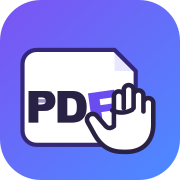
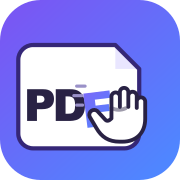
Add Word-style PDF editing ribbon (#17)

Changed region(s): [[0.0833, 0.2222, 0.8889, 0.8611]]

diff --git a/public/index.html b/public/index.html
@@ -188,11 +188,13 @@ canvas#sigPad{border:1px solid var(--line2);border-radius:8px;cursor:crosshair;t
 .sigsaved .sigthumb img{max-height:38px;max-width:132px;display:block;pointer-events:none;}
 .sigsaved .sigthumb .x{top:-7px;right:-7px;}
 
-/* ---- Word-style menu bar + contextual ribbon (wide screens) ---- */
-.menubar{display:flex;align-items:center;gap:2px;height:40px;flex:0 0 40px;padding:0 10px;background:#fff;border-bottom:1px solid var(--line);z-index:19;}
+/* ---- Word-style tabs + command ribbon (wide screens) ---- */
+.menubar{display:flex;align-items:flex-end;gap:1px;height:38px;flex:0 0 38px;padding:0 12px;background:#fff;border-bottom:1px solid var(--line);z-index:21;}
 .menubar .menu{position:relative;}
-.menubar .menutop{border:none;background:transparent;color:var(--ink2);font-size:13px;font-weight:600;padding:6px 11px;border-radius:7px;}
-.menubar .menutop:hover,.menubar .menu.open .menutop{background:var(--chip);}
+.menubar .menu:not([data-menu="file"]),.menubar .zoomgroup,.menubar .quicktool{display:none;}
+.menubar .menutop,.menubar .ribbontab{height:37px;border:none;border-bottom:3px solid transparent;background:transparent;color:var(--ink2);font-size:13px;font-weight:600;padding:3px 13px 0;}
+.menubar .menutop:hover,.menubar .menu.open .menutop,.menubar .ribbontab:hover{background:#f6f6f8;}
+.menubar .ribbontab.active{color:var(--accent);border-bottom-color:var(--accent);background:#faf9ff;}
 .menubar .menupop{display:none;position:absolute;top:calc(100% + 3px);left:0;min-width:216px;background:#fff;border:1px solid var(--line2);border-radius:10px;box-shadow:0 14px 36px rgba(20,22,30,.18);padding:6px;z-index:40;}
 .menubar .menu.open .menupop{display:block;}
 .menubar .mi{display:flex;align-items:center;justify-content:space-between;gap:18px;width:100%;text-align:left;border:none;background:transparent;color:var(--ink2);font-size:13px;font-weight:500;padding:8px 10px;border-radius:7px;white-space:nowrap;}
@@ -200,14 +202,21 @@ canvas#sigPad{border:1px solid var(--line2);border-radius:8px;cursor:crosshair;t
 .menubar .mi.active{color:var(--accent);font-weight:700;}
 .menubar .mi .kbd{font-size:11px;color:var(--sub3);font-weight:600;}
 .menubar .misep{height:1px;background:#eeeef1;margin:5px 6px;}
-.menubar .zoomgroup{display:flex;align-items:center;gap:2px;border:1px solid var(--line2);border-radius:8px;padding:2px;margin:0 6px;}
-.menubar .zbtn{width:28px;height:28px;border:none;background:transparent;border-radius:6px;color:var(--ink2);font-size:16px;display:flex;align-items:center;justify-content:center;}
-.menubar .zbtn:hover{background:var(--chip);}
-.menubar .zlabel2{min-width:54px;height:28px;border:none;background:transparent;border-radius:6px;font-size:12.5px;font-weight:700;color:var(--ink2);}
-.menubar .zlabel2:hover{background:var(--chip);}
-.menubar .quicktool{border:1px solid var(--line2);background:#fff;color:var(--ink2);font-size:12.5px;font-weight:600;padding:0 12px;height:30px;border-radius:7px;}
-.menubar .quicktool:hover{background:var(--chip);}
-.menubar .quicktool.active{background:var(--grad);color:#fff;border-color:transparent;box-shadow:0 1px 4px rgba(106,76,240,.3);}
+.command-ribbon{height:94px;flex:0 0 94px;display:block;background:#fff;border-bottom:1px solid var(--line);box-shadow:0 2px 7px rgba(24,26,34,.05);overflow-x:auto;overflow-y:hidden;z-index:20;}
+.ribbon-panel{height:100%;display:flex;align-items:stretch;gap:0;padding:7px 10px 5px;}
+.ribbon-panel[hidden]{display:none;}
+.ribbon-group{display:flex;align-items:stretch;gap:4px;padding:0 12px 17px;position:relative;border-right:1px solid var(--line);}
+.ribbon-group:first-child{padding-left:2px;}
+.ribbon-group:last-child{border-right:none;}
+.ribbon-group-label{position:absolute;left:8px;right:8px;bottom:0;text-align:center;color:var(--sub2);font-size:10.5px;line-height:15px;white-space:nowrap;}
+.ribbon-command{width:62px;min-width:54px;border:1px solid transparent;border-radius:7px;background:transparent;color:var(--ink2);display:flex;flex-direction:column;align-items:center;justify-content:center;gap:4px;padding:5px 5px 4px;font-size:11.5px;font-weight:600;line-height:1.08;}
+.ribbon-command:hover{background:#f5f4f9;border-color:#e8e6ef;}
+.ribbon-command.active{background:#eeeaff;border-color:#cfc4ff;color:#5533dd;}
+.ribbon-command:focus-visible,.menubar button:focus-visible{outline:2px solid var(--accent);outline-offset:-2px;}
+.ribbon-command svg{width:28px;height:28px;display:block;flex:0 0 auto;}
+.ribbon-command.wide{width:76px;}
+.ribbon-zoom{display:flex;align-items:center;gap:3px;}
+.ribbon-zoom .ribbon-command{width:48px;}
 #ribbonScrim{z-index:54;}
 
 /* ---- Browser-style tabs (one per open PDF) ---- */
@@ -228,6 +237,13 @@ canvas#sigPad{border:1px solid var(--line2);border-radius:8px;cursor:crosshair;t
 .tabbar .tabadd:hover{background:rgba(20,22,30,.08);color:var(--ink);}
 
 @media (min-width:821px){
+  header.topbar{order:0;}
+  .tabbar{order:1;}
+  .menubar{order:2;}
+  .command-ribbon{order:3;}
+  aside.props{order:4;}
+  .body-flex{order:5;}
+  nav.rail{display:none;}
   aside.props{flex:0 0 auto;max-height:230px;overflow:auto;border-left:none;border-bottom:1px solid var(--line);background:#fbfbfc;}
   aside.props .props-head{display:none;}
   aside.props .props-body{display:flex;flex-flow:row wrap;align-items:center;gap:8px 14px;padding:9px 16px;}
@@ -242,7 +258,7 @@ canvas#sigPad{border:1px solid var(--line2);border-radius:8px;cursor:crosshair;t
   aside.props .props-body>.row{width:auto;}
   aside.props .props-body>.hint,aside.props .props-body>p.hint{flex-basis:100%;margin:0;}
   /* signature tool → centered popup instead of the horizontal ribbon */
-  body.ribbon-popup aside.props{position:fixed;left:50%;top:72px;transform:translateX(-50%);width:min(380px,92vw);max-height:76vh;overflow:auto;
+  body.ribbon-popup aside.props{position:fixed;left:50%;top:104px;transform:translateX(-50%);width:min(380px,92vw);max-height:76vh;overflow:auto;
     border:1px solid var(--line2);border-radius:14px;box-shadow:0 24px 70px rgba(0,0,0,.32);z-index:55;background:#fff;}
   body.ribbon-popup aside.props .props-head{display:block;padding:15px 18px 4px;}
   body.ribbon-popup aside.props .props-head .sheet-close{display:none;}
@@ -405,11 +421,17 @@ canvas#sigPad{border:1px solid var(--line2);border-radius:8px;cursor:crosshair;t
       <button class="mi" data-act="tutorial">Quick start</button>
     </div></div>
 
+    <button class="ribbontab active" data-ribbon="home" aria-selected="true">Home</button>
+    <button class="ribbontab" data-ribbon="insert" aria-selected="false">Insert</button>
+    <button class="ribbontab" data-ribbon="draw" aria-selected="false">Draw</button>
+    <button class="ribbontab" data-ribbon="pages" aria-selected="false">Pages</button>
+    <button class="ribbontab" data-ribbon="view" aria-selected="false">View</button>
+    <button class="ribbontab" data-ribbon="help" aria-selected="false">Help</button>
     <div class="spacer"></div>
 
     <div class="zoomgroup" title="Zoom">
       <button class="zbtn" data-act="zoomout" title="Zoom out">&#8722;</button>
-      <button class="zlabel2" data-act="zoomreset" id="hdrZoomLabel" title="Reset zoom">100%</button>
+      <button class="zlabel2" data-act="zoomreset" id="legacyHdrZoomLabel" title="Reset zoom">100%</button>
       <button class="zbtn" data-act="zoomin" title="Zoom in">&#43;</button>
     </div>
     <button class="quicktool active" data-tool="select" title="Select">Select</button>
@@ -418,6 +440,93 @@ canvas#sigPad{border:1px solid var(--line2);border-radius:8px;cursor:crosshair;t
 
   <!-- Browser-style tabs: one per open PDF. Hidden until a document is loaded. -->
   <div class="tabbar" id="tabBar" hidden></div>
+
+  <!-- Second-level command ribbon: each editor tab reveals a focused tool set. -->
+  <div class="command-ribbon desktop-only" id="commandRibbon" aria-label="PDF editor ribbon">
+    <div class="ribbon-panel" data-ribbon-panel="home">
+      <div class="ribbon-group">
+        <button class="ribbon-command" data-act="undo" title="Undo (Ctrl+Z)"><svg viewBox="0 0 24 24" fill="none" stroke="currentColor" stroke-width="1.7" stroke-linecap="round" stroke-linejoin="round"><path d="M9 7H4V2"/><path d="M4.5 7.5A9 9 0 1 1 6 18"/></svg><span>Undo</span></button>
+        <button class="ribbon-command" data-act="redo" title="Redo (Ctrl+Y)"><svg viewBox="0 0 24 24" fill="none" stroke="currentColor" stroke-width="1.7" stroke-linecap="round" stroke-linejoin="round"><path d="M15 7h5V2"/><path d="M19.5 7.5A9 9 0 1 0 18 18"/></svg><span>Redo</span></button>
+        <span class="ribbon-group-label">History</span>
+      </div>
+      <div class="ribbon-group">
+        <button class="ribbon-command active" data-tool="select"><svg viewBox="0 0 24 24" fill="none" stroke="currentColor" stroke-width="1.7" stroke-linecap="round" stroke-linejoin="round"><path d="M5 3.5 19 10l-6.2 2.1L10.5 19z"/></svg><span>Select</span></button>
+        <button class="ribbon-command" data-tool="hand" title="Pan around the page"><svg viewBox="0 0 24 24" fill="none" stroke="currentColor" stroke-width="1.65" stroke-linecap="round" stroke-linejoin="round"><path d="M7.2 11.2V7.5a1.55 1.55 0 0 1 3.1 0v2.2-4.1a1.55 1.55 0 0 1 3.1 0v4-3a1.55 1.55 0 0 1 3.1 0v3.9-2.1a1.55 1.55 0 0 1 3.1 0v5.2c0 4.7-3 7.4-7.3 7.4h-.8c-3.3 0-5.4-1.5-7-4.3l-2-3.5a1.7 1.7 0 0 1 2.7-2l2 2.2z"/></svg><span>Pan</span></button>
+        <button class="ribbon-command" data-tool="edittext"><svg viewBox="0 0 24 24" fill="none" stroke="currentColor" stroke-width="1.7" stroke-linecap="round" stroke-linejoin="round"><path d="M4 6h12M4 10.5h8M4 15h9"/><path d="m14.5 19.5 5-5 2 2-5 5h-2z"/></svg><span>Edit text</span></button>
+        <span class="ribbon-group-label">Editing tools</span>
+      </div>
+      <div class="ribbon-group">
+        <button class="ribbon-command" data-act="copy"><svg viewBox="0 0 24 24" fill="none" stroke="currentColor" stroke-width="1.7"><rect x="8" y="8" width="11" height="12" rx="1.5"/><path d="M16 8V5a1 1 0 0 0-1-1H5a1 1 0 0 0-1 1v11a1 1 0 0 0 1 1h3"/></svg><span>Copy</span></button>
+        <button class="ribbon-command" data-act="paste"><svg viewBox="0 0 24 24" fill="none" stroke="currentColor" stroke-width="1.7"><path d="M9 5V3h6v2"/><rect x="5" y="5" width="14" height="16" rx="2"/><path d="M9 10h6M9 14h6"/></svg><span>Paste</span></button>
+        <button class="ribbon-command" data-act="duplicate"><svg viewBox="0 0 24 24" fill="none" stroke="currentColor" stroke-width="1.7"><rect x="8" y="8" width="11" height="11" rx="1.5"/><rect x="4" y="4" width="11" height="11" rx="1.5"/></svg><span>Duplicate</span></button>
+        <button class="ribbon-command" data-act="delete"><svg viewBox="0 0 24 24" fill="none" stroke="currentColor" stroke-width="1.7" stroke-linecap="round"><path d="M4 6h16M9 6V3h6v3M7 6l1 15h8l1-15M10 10v7M14 10v7"/></svg><span>Delete</span></button>
+        <span class="ribbon-group-label">Clipboard</span>
+      </div>
+    </div>
+
+    <div class="ribbon-panel" data-ribbon-panel="insert" hidden>
+      <div class="ribbon-group">
+        <button class="ribbon-command" data-tool="text"><svg viewBox="0 0 24 24" fill="none" stroke="currentColor" stroke-width="1.7"><path d="M5 5h14M12 5v14M8.5 19h7"/></svg><span>Text</span></button>
+        <button class="ribbon-command" data-tool="image"><svg viewBox="0 0 24 24" fill="none" stroke="currentColor" stroke-width="1.7"><rect x="3" y="5" width="18" height="14" rx="2"/><circle cx="8.5" cy="10" r="1.5"/><path d="m21 16-5-5-8 8"/></svg><span>Picture</span></button>
+        <button class="ribbon-command" data-tool="shape"><svg viewBox="0 0 24 24" fill="none" stroke="currentColor" stroke-width="1.7"><rect x="4" y="4" width="10.5" height="10.5" rx="1"/><circle cx="15.5" cy="15.5" r="4.5"/></svg><span>Shapes</span></button>
+        <span class="ribbon-group-label">Content</span>
+      </div>
+      <div class="ribbon-group">
+        <button class="ribbon-command wide" data-tool="signature"><svg viewBox="0 0 24 24" fill="none" stroke="currentColor" stroke-width="1.7" stroke-linecap="round"><path d="M3 15c2.5 0 3-5 5.5-5s2 4 4 4 2.5-4 4.5-4M3 20h18"/></svg><span>Signature</span></button>
+        <button class="ribbon-command wide" data-tool="watermark"><svg viewBox="0 0 24 24" fill="none" stroke="currentColor" stroke-width="1.6"><g transform="rotate(-10 12 12)"><rect x="4" y="7" width="16" height="10" rx="1" stroke-dasharray="3 2.5"/><path d="m8 10 1.4 4 2.6-4 2.6 4L16 10"/></g></svg><span>Watermark</span></button>
+        <button class="ribbon-command wide" data-tool="pagenum"><svg viewBox="0 0 24 24" fill="none" stroke="currentColor" stroke-width="1.7"><path d="M9.5 4 8 20M16 4l-1.5 16M5 9h14M4 15h14"/></svg><span>Page no.</span></button>
+        <span class="ribbon-group-label">Document marks</span>
+      </div>
+    </div>
+
+    <div class="ribbon-panel" data-ribbon-panel="draw" hidden>
+      <div class="ribbon-group">
+        <button class="ribbon-command" data-tool="select"><svg viewBox="0 0 24 24" fill="none" stroke="currentColor" stroke-width="1.7"><path d="M5 3.5 19 10l-6.2 2.1L10.5 19z"/></svg><span>Select</span></button>
+        <button class="ribbon-command" data-tool="draw"><svg viewBox="0 0 24 24" fill="none" stroke="currentColor" stroke-width="1.7"><path d="m4 20 3.5-1L19 7.5A1.8 1.8 0 0 0 16.5 5L5 16.5zM14.5 6.5l3 3"/></svg><span>Pen</span></button>
+        <button class="ribbon-command" data-tool="highlight"><svg viewBox="0 0 24 24" fill="none" stroke="currentColor" stroke-width="1.7"><path d="m13 5.5 5.5 5.5-6.5 6.5H7l-1.5-4zM4 21h16"/></svg><span>Highlight</span></button>
+        <span class="ribbon-group-label">Drawing tools</span>
+      </div>
+      <div class="ribbon-group">
+        <button class="ribbon-command" data-tool="redact"><svg viewBox="0 0 24 24" fill="currentColor"><rect x="4" y="8.5" width="16" height="7" rx="1"/><path d="M6 5h12v1.5H6zM6 17.5h12V19H6z" opacity=".35"/></svg><span>Redact</span></button>
+        <span class="ribbon-group-label">Protection</span>
+      </div>
+    </div>
+
+    <div class="ribbon-panel" data-ribbon-panel="pages" hidden>
+      <div class="ribbon-group">
+        <button class="ribbon-command wide" data-tool="organize"><svg viewBox="0 0 24 24" fill="none" stroke="currentColor" stroke-width="1.7"><rect x="8" y="3" width="12" height="15" rx="1.5"/><path d="M4 7v11a2 2 0 0 0 2 2h9"/></svg><span>Organize</span></button>
+        <button class="ribbon-command wide" data-act="addpages"><svg viewBox="0 0 24 24" fill="none" stroke="currentColor" stroke-width="1.7"><path d="M5 3h10l4 4v14H5zM15 3v5h4M9 14h6M12 11v6"/></svg><span>Add pages</span></button>
+        <button class="ribbon-command wide" data-act="merge"><svg viewBox="0 0 24 24" fill="none" stroke="currentColor" stroke-width="1.7"><path d="M4 4h7v7H4zM13 13h7v7h-7zM7.5 11v3.5a2 2 0 0 0 2 2H13"/></svg><span>Merge PDFs</span></button>
+        <span class="ribbon-group-label">Pages</span>
+      </div>
+      <div class="ribbon-group">
+        <button class="ribbon-command wide" data-act="togglePages"><svg viewBox="0 0 24 24" fill="none" stroke="currentColor" stroke-width="1.7"><rect x="3" y="4" width="7" height="16" rx="1"/><path d="M14 5h6M14 10h6M14 15h6M14 19h4"/></svg><span>Pages panel</span></button>
+        <span class="ribbon-group-label">Navigation</span>
+      </div>
+    </div>
+
+    <div class="ribbon-panel" data-ribbon-panel="view" hidden>
+      <div class="ribbon-group">
+        <button class="ribbon-command wide" data-act="togglePages"><svg viewBox="0 0 24 24" fill="none" stroke="currentColor" stroke-width="1.7"><rect x="3" y="4" width="7" height="16" rx="1"/><path d="M14 5h6M14 10h6M14 15h6M14 19h4"/></svg><span>Pages panel</span></button>
+        <button class="ribbon-command wide" data-act="zoomfit"><svg viewBox="0 0 24 24" fill="none" stroke="currentColor" stroke-width="1.7"><path d="M4 9V4h5M15 4h5v5M20 15v5h-5M9 20H4v-5M7 12h10"/></svg><span>Fit width</span></button>
+        <span class="ribbon-group-label">Document view</span>
+      </div>
+      <div class="ribbon-group ribbon-zoom">
+        <button class="ribbon-command" data-act="zoomout"><svg viewBox="0 0 24 24" fill="none" stroke="currentColor" stroke-width="1.8"><circle cx="10.5" cy="10.5" r="6.5"/><path d="m15.5 15.5 5 5M7.5 10.5h6"/></svg><span>Out</span></button>
+        <button class="ribbon-command wide" data-act="zoomreset"><svg viewBox="0 0 24 24" fill="none" stroke="currentColor" stroke-width="1.7"><circle cx="10.5" cy="10.5" r="6.5"/><path d="m15.5 15.5 5 5"/></svg><span id="hdrZoomLabel">100%</span></button>
+        <button class="ribbon-command" data-act="zoomin"><svg viewBox="0 0 24 24" fill="none" stroke="currentColor" stroke-width="1.8"><circle cx="10.5" cy="10.5" r="6.5"/><path d="m15.5 15.5 5 5M7.5 10.5h6M10.5 7.5v6"/></svg><span>In</span></button>
+        <span class="ribbon-group-label">Zoom</span>
+      </div>
+    </div>
+
+    <div class="ribbon-panel" data-ribbon-panel="help" hidden>
+      <div class="ribbon-group">
+        <button class="ribbon-command wide" data-act="shortcuts"><svg viewBox="0 0 24 24" fill="none" stroke="currentColor" stroke-width="1.7"><rect x="3" y="6" width="18" height="12" rx="2"/><path d="M6 10h2M10 10h2M14 10h2M18 10h1M7 14h10"/></svg><span>Shortcuts</span></button>
+        <button class="ribbon-command wide" data-act="tutorial"><svg viewBox="0 0 24 24" fill="none" stroke="currentColor" stroke-width="1.7"><circle cx="12" cy="12" r="9"/><path d="M9.7 9a2.5 2.5 0 1 1 3.6 2.25c-.9.45-1.3 1-1.3 2M12 17h.01"/></svg><span>Quick start</span></button>
+        <span class="ribbon-group-label">Help</span>
+      </div>
+    </div>
+  </div>
 
   <!-- Contextual ribbon: the active tool's options (relocated from the old right panel). -->
   <div class="scrim" id="ribbonScrim" hidden></div>
@@ -434,7 +543,7 @@ canvas#sigPad{border:1px solid var(--line2);border-radius:8px;cursor:crosshair;t
       <button class="railbtn active" data-tool="select" title="Select">
         <svg viewBox="0 0 24 24" fill="none" stroke="currentColor" stroke-width="1.7" stroke-linecap="round" stroke-linejoin="round"><path d="M5 4l14 6-6 2-2 6z"/></svg></button>
       <button class="railbtn" data-tool="hand" title="Hand — pan around">
-        <svg viewBox="0 0 24 24" fill="none" stroke="currentColor" stroke-width="1.7" stroke-linecap="round" stroke-linejoin="round"><path d="M12 3.5v17M3.5 12h17M12 3.5l-2.4 2.4M12 3.5l2.4 2.4M12 20.5l-2.4-2.4M12 20.5l2.4-2.4M3.5 12l2.4-2.4M3.5 12l2.4 2.4M20.5 12l-2.4-2.4M20.5 12l-2.4 2.4"/></svg></button>
+        <svg viewBox="0 0 24 24" fill="none" stroke="currentColor" stroke-width="1.65" stroke-linecap="round" stroke-linejoin="round"><path d="M7.2 11.2V7.5a1.55 1.55 0 0 1 3.1 0v2.2-4.1a1.55 1.55 0 0 1 3.1 0v4-3a1.55 1.55 0 0 1 3.1 0v3.9-2.1a1.55 1.55 0 0 1 3.1 0v5.2c0 4.7-3 7.4-7.3 7.4h-.8c-3.3 0-5.4-1.5-7-4.3l-2-3.5a1.7 1.7 0 0 1 2.7-2l2 2.2z"/></svg></button>
       <div class="raildiv"></div>
       <button class="railbtn" data-tool="text" title="Text">
         <svg viewBox="0 0 24 24" fill="none" stroke="currentColor" stroke-width="1.7" stroke-linecap="round" stroke-linejoin="round"><path d="M6 5h12M12 5v14M9.5 19h5"/></svg></button>

diff --git a/public/app.js b/public/app.js
@@ -4,6 +4,25 @@ const { PDFDocument, degrees, rgb, StandardFonts } = window.PDFLib;
 const $ = (id) => document.getElementById(id);
 function escapeHtml(s) { return String(s).replace(/[&<>"']/g, (c) => ({ "&": "&amp;", "<": "&lt;", ">": "&gt;", '"': "&quot;", "'": "&#39;" }[c])); }
 
+// Compact PD-F mark: the F has just started moving and a clean, open hand is
+// gripping its right edge. IDs are unique because the mark appears three times.
+document.querySelectorAll(".pdflogo").forEach((oldLogo, i) => {
+  const label = oldLogo.getAttribute("aria-label");
+  const aria = label ? `role="img" aria-label="${escapeHtml(label)}"` : 'aria-hidden="true"';
+  const mark = document.createElement("span");
+  mark.innerHTML = `<svg class="pdflogo" viewBox="0 0 272 100" fill="none" xmlns="http://www.w3.org/2000/svg" ${aria}>
+    <defs><linearGradient id="logoGradient${i}" x1="117" y1="18" x2="176" y2="82" gradientUnits="userSpaceOnUse"><stop stop-color="#8A68FF"/><stop offset="1" stop-color="#4F86FF"/></linearGradient></defs>
+    <text x="2" y="75" font-family="'Hanken Grotesk',Arial,sans-serif" font-weight="800" font-size="74" letter-spacing="-4" fill="currentColor">PD</text>
+    <path d="M107 37h14M103 50h13M108 63h10" stroke="currentColor" stroke-width="4" stroke-linecap="round" opacity=".28"/>
+    <g transform="rotate(-6 145 52)"><text x="116" y="77" font-family="'Hanken Grotesk',Arial,sans-serif" font-weight="800" font-size="76" letter-spacing="-3" fill="url(#logoGradient${i})">F</text></g>
+    <g stroke="currentColor" stroke-width="4.3" stroke-linecap="round" stroke-linejoin="round">
+      <path d="M172 57V38a5.2 5.2 0 0 1 10.4 0v11-17a5.2 5.2 0 0 1 10.4 0v17-13a5.2 5.2 0 0 1 10.4 0v14-8a5.2 5.2 0 0 1 10.4 0v20c0 16-10.5 26-27.2 26h-3.5c-13 0-21.2-5.5-27.2-16l-8-13.5a6.2 6.2 0 0 1 9.9-7.2l9.3 10.3c2 2.2 3.8 1.7 5.3-.4z"/>
+      <path d="M172 51c5.2 2.6 10.5 2.7 15.8.2" opacity=".45"/>
+    </g>
+  </svg>`;
+  oldLogo.replaceWith(mark.firstElementChild);
+});
+
 // Non-blocking toast notifications (replaces toast()). type: "info" | "success" | "error".
 function toast(msg, type = "info") {
   let wrap = $("toasts");
@@ -515,12 +534,12 @@ function applyZoom() {
   const h = $("hdrZoomLabel"); if (h) h.textContent = z;
 }
 
-// ------------------------------------------------------------------ tool selection (mobile rail + header menus)
+// ------------------------------------------------------------------ tool selection (mobile rail + desktop ribbon)
 function selectTool(name) {
   tk.tool = name;
   tk.placeArmed = false;
   tk.activeText = null;
-  document.querySelectorAll("#toolRail [data-tool], #menuBar [data-tool]").forEach((x) => x.classList.toggle("active", x.dataset.tool === name));
+  document.querySelectorAll("#toolRail [data-tool], #menuBar [data-tool], #commandRibbon [data-tool]").forEach((x) => x.classList.toggle("active", x.dataset.tool === name));
   document.querySelectorAll("#toolRail [data-tool]").forEach((x) => x.setAttribute("aria-pressed", String(x.dataset.tool === name)));
   // Signature needs drawing room — on wide screens show it as a centered popup, not the ribbon strip.
   const sigPopup = name === "signature" && !isMobile();
@@ -539,7 +558,22 @@ document.querySelectorAll("#toolRail [data-tool]").forEach((b) => {
 });
 $("ribbonScrim").onclick = () => selectTool("select");
 
-// ---- Word-style header menu bar: dropdowns set the tool or run an action ----
+// ---- Word-style header: first-level tabs switch the second-level command ribbon. ----
+function setRibbonTab(name) {
+  document.querySelectorAll("#menuBar .ribbontab").forEach((tab) => {
+    const active = tab.dataset.ribbon === name;
+    tab.classList.toggle("active", active);
+    tab.setAttribute("aria-selected", String(active));
+  });
+  document.querySelectorAll("#commandRibbon [data-ribbon-panel]").forEach((panel) => {
+    panel.hidden = panel.dataset.ribbonPanel !== name;
+  });
+}
+document.querySelectorAll("#menuBar .ribbontab").forEach((tab) => {
+  tab.onclick = (e) => { e.stopPropagation(); closeMenus(); setRibbonTab(tab.dataset.ribbon); };
+});
+
+// File remains a compact dropdown; all editor commands live in the ribbon.
 function closeMenus() {
   document.querySelectorAll("#menuBar .menu.open").forEach((m) => m.classList.remove("open"));
   document.querySelectorAll("#menuBar .menutop").forEach((btn) => btn.setAttribute("aria-expanded", "false"));
@@ -583,7 +617,7 @@ function runMenuAct(act) {
 }
 $("helpClose").onclick = () => ($("helpModalBack").hidden = true);
 $("helpModalBack").onclick = (e) => { if (e.target === $("helpModalBack")) $("helpModalBack").hidden = true; };
-document.querySelectorAll("#menuBar [data-tool], #menuBar [data-act]").forEach((el) => {
+document.querySelectorAll("#menuBar [data-tool], #menuBar [data-act], #commandRibbon [data-tool], #commandRibbon [data-act]").forEach((el) => {
   el.addEventListener("click", (e) => {
     e.stopPropagation(); closeMenus();
     if (el.dataset.tool) selectTool(el.dataset.tool);
